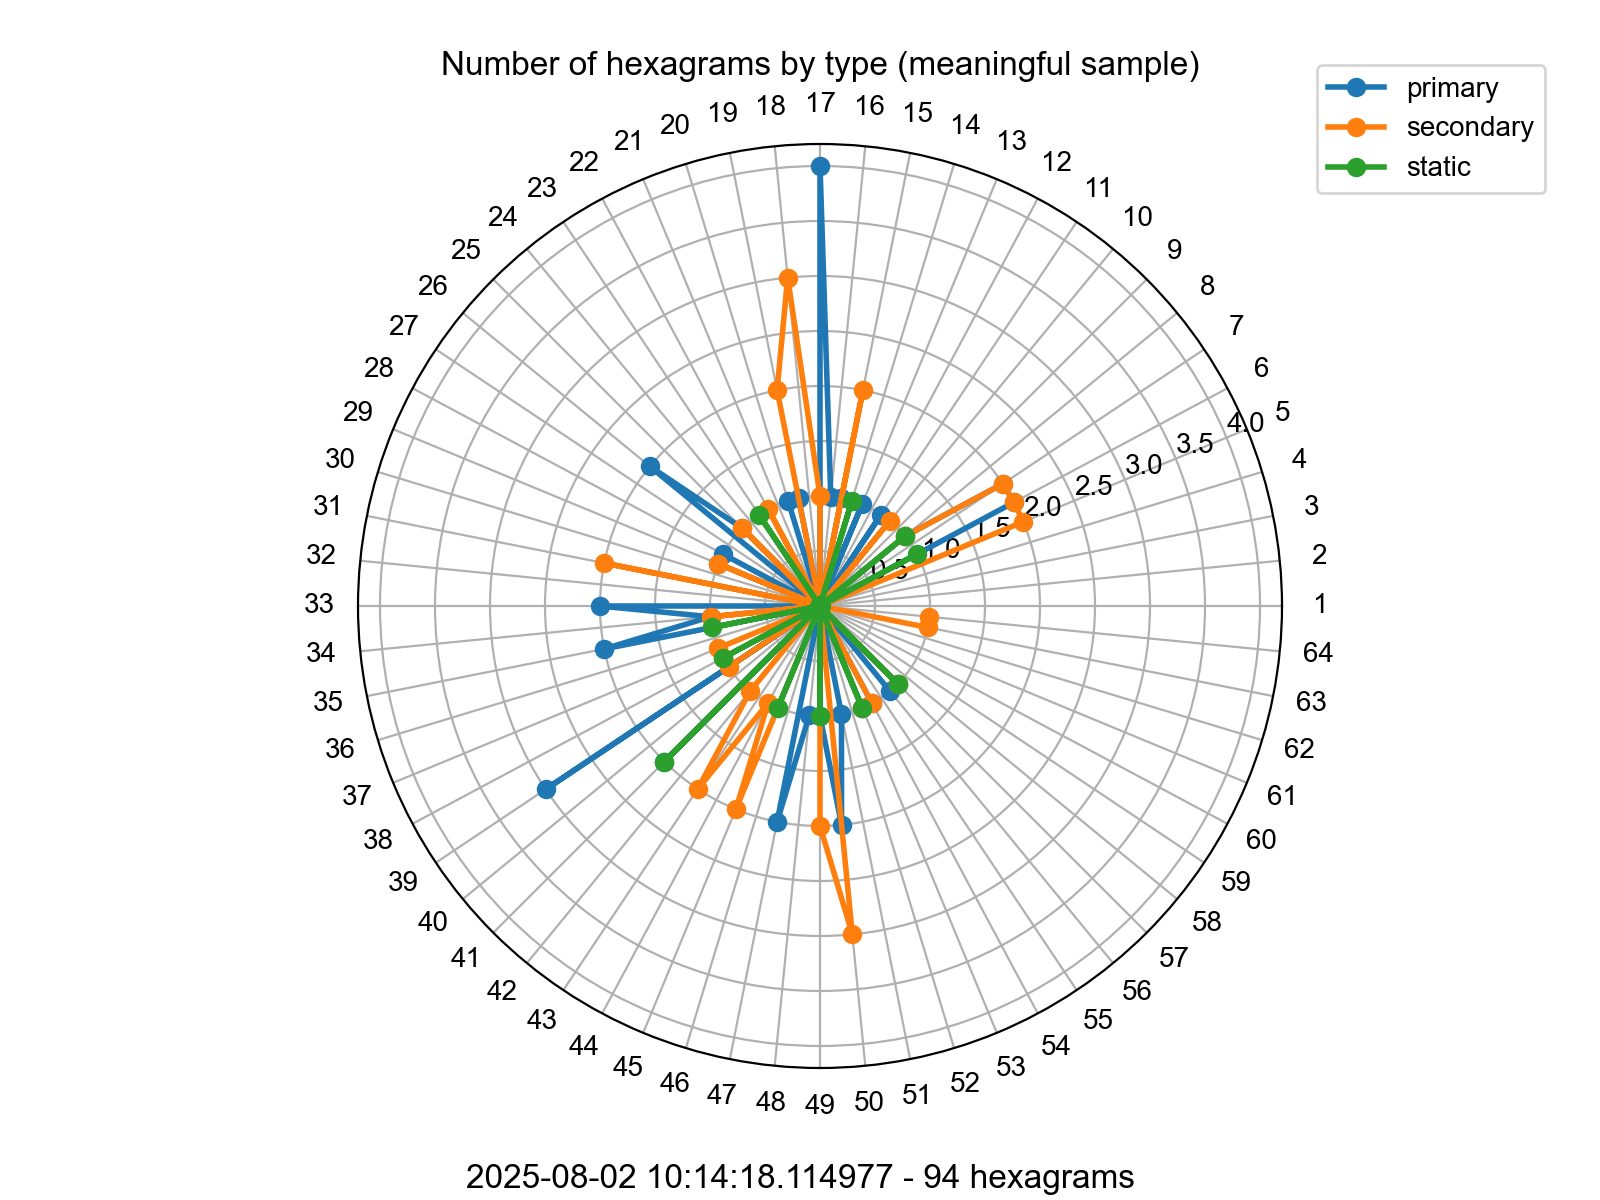
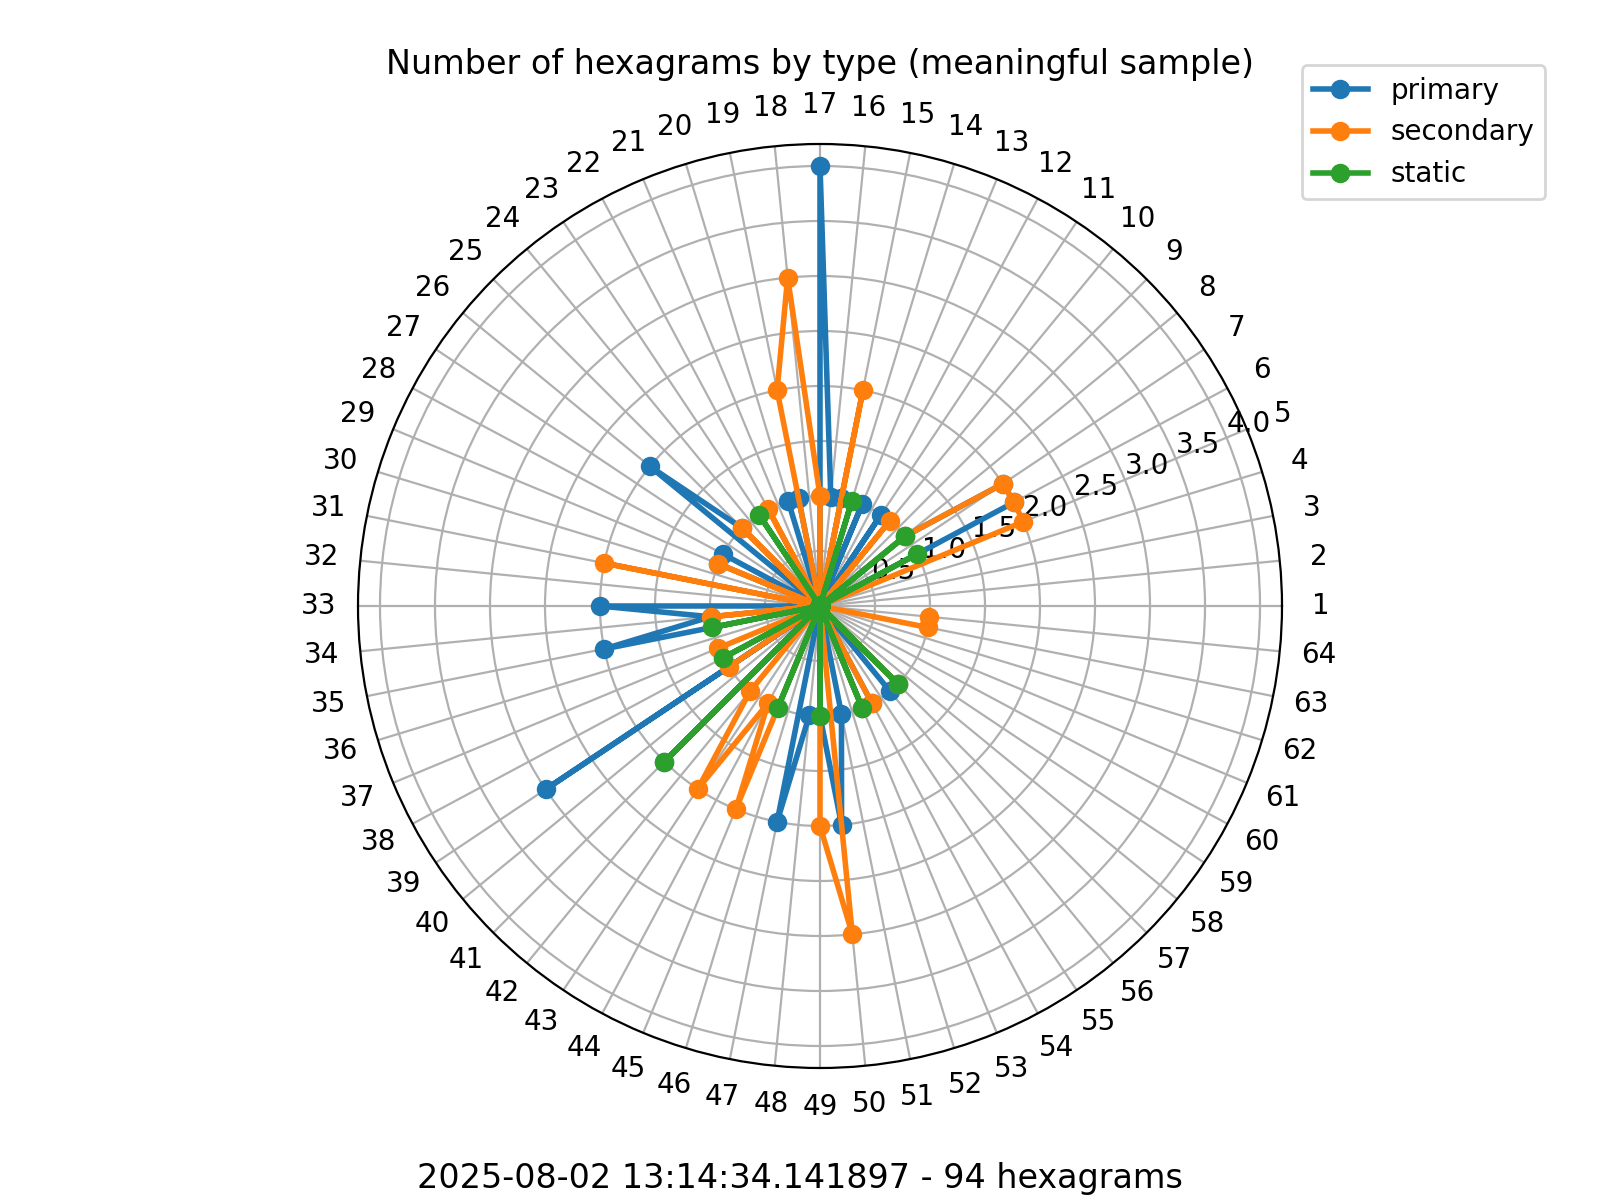
Update plots

diff --git a/docs/print_plots.py b/docs/print_plots.py
@@ -3,7 +3,7 @@ import matplotlib.pyplot as plt
 import pandas as pd
 import numpy as np
 
-plt.rcParams['font.family'] = 'Unifont'
+# plt.rcParams['font.family'] = 'Unifont'
 plt.rcParams['figure.figsize'] = [8.0, 6.0]
 plt.rcParams['figure.dpi'] = 200
 
